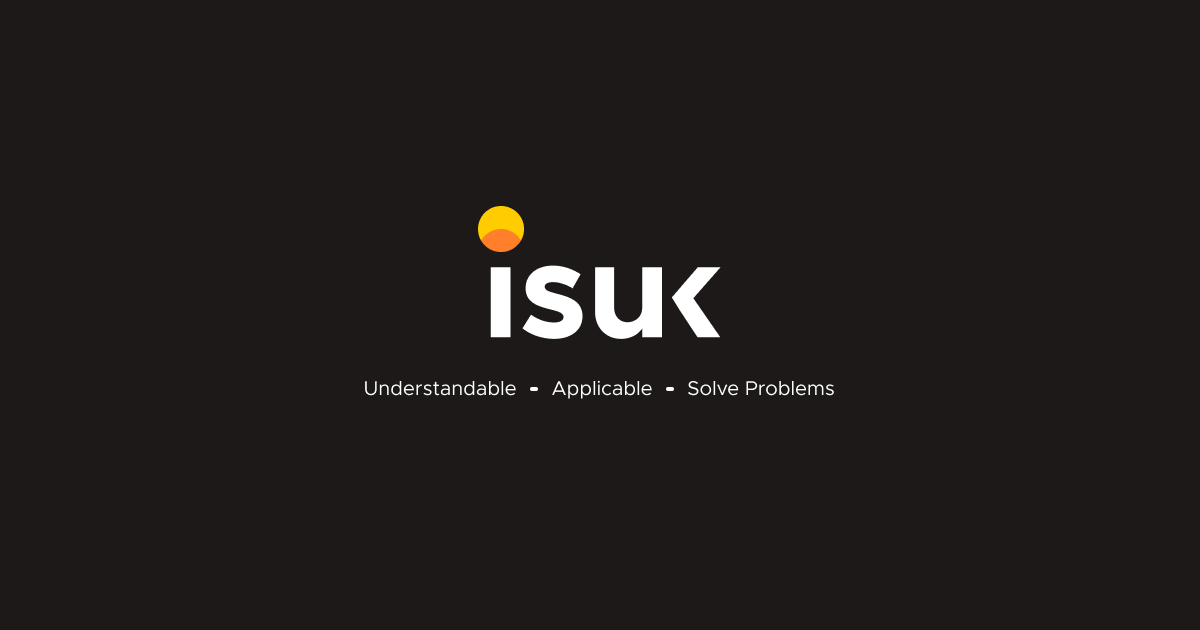
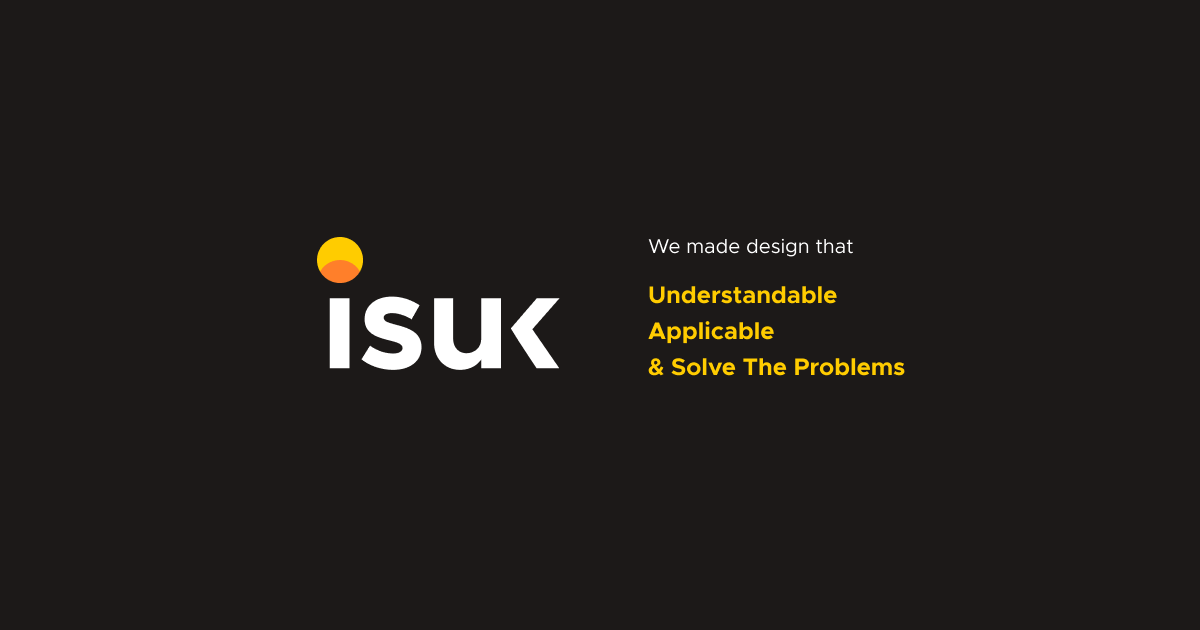
refine og image and some copy

Changed region(s): [[0.2467, 0.3317, 0.7092, 0.6333], [0.4625, 0.573, 0.7708, 0.6333]]

diff --git a/index.html b/index.html
@@ -27,8 +27,8 @@
     <!-- Meta OG Image -->
     <meta property="og:type" content="website">
     <meta property="og:url" content="https://www.isuk.studio">
-    <meta property="og:title" content="Isuk Studio : Understandable - Applicable - Solve">
-    <meta property="og:description" content="At Isuk we design something that understandable for users, applicable for the tech team, and (the last but not least) we solve the problem.">
+    <meta property="og:title" content="Isuk Studio : Understandable, Applicable, & Solve the Problems">
+    <meta property="og:description" content="At Isuk we design something that understandable for users, applicable for the tech team, and (the last but not least) solve the problems.">
     <meta property="og:width" content="1200">
     <meta property="og:height" content="630">
     <meta property="og:image" content="https://www.isuk.studio/public-assets/og-images/fb.png">
@@ -36,8 +36,8 @@
     
     <!-- Meta Twitter Card -->
     <meta property="twitter:url" content="https://www.isuk.studio">
-    <meta property="twitter:title" content="Isuk Studio : Understandable - Applicable - Solve">
-    <meta property="twitter:description" content="At Isuk we design something that understandable for users, applicable for the tech team, and (the last but not least) we solve the problem.">
+    <meta property="twitter:title" content="Isuk Studio : Understandable, Applicable, & Solve the Problems">
+    <meta property="twitter:description" content="At Isuk we design something that understandable for users, applicable for the tech team, and (the last but not least) solve the problems.">
     <meta property="twitter:image" content="https://www.isuk.studio/public-assets/og-images/twitter.png">
 
     <link rel="stylesheet" href="/public-assets/css/styles.css">
@@ -47,16 +47,16 @@
       <section class="info">
         <h1>
           <img src="/public-assets/logos/isuk.svg" alt="Picture of Isuk's logo">
-          Isuk Studio : Understandable - Applicable - Solve
+          Isuk Studio : Understandable, Applicable, & Solve the Problems
         </h1>
         <h2>
           We are coming soon...
         </h2>
         <p>
-          At Isuk we design something that <span class="highlight">understandable</span> for users , <span class="highlight">applicable</span> for the tech team, and--the last but not least--we <span class="highlight">solve</span> the problem.
+          At Isuk we design something that <span class="highlight">Understandable</span> for users , <span class="highlight">Applicable</span> for the tech team, and--the last but not least--<span class="highlight">Solve</span> the problem.
         </p>
         <p class='contact-intro'>
-          Interested to collaborate with us? Contact us!
+          Interested to collaborate? Let's get in touch!
         </p>
         <a class="contact" href="mailto:hi@isuk.studio"><img class='' src="/public-assets/icons/email.svg" alt="Contact Isuk Studio">hi@isuk.studio</a>
       </section>
